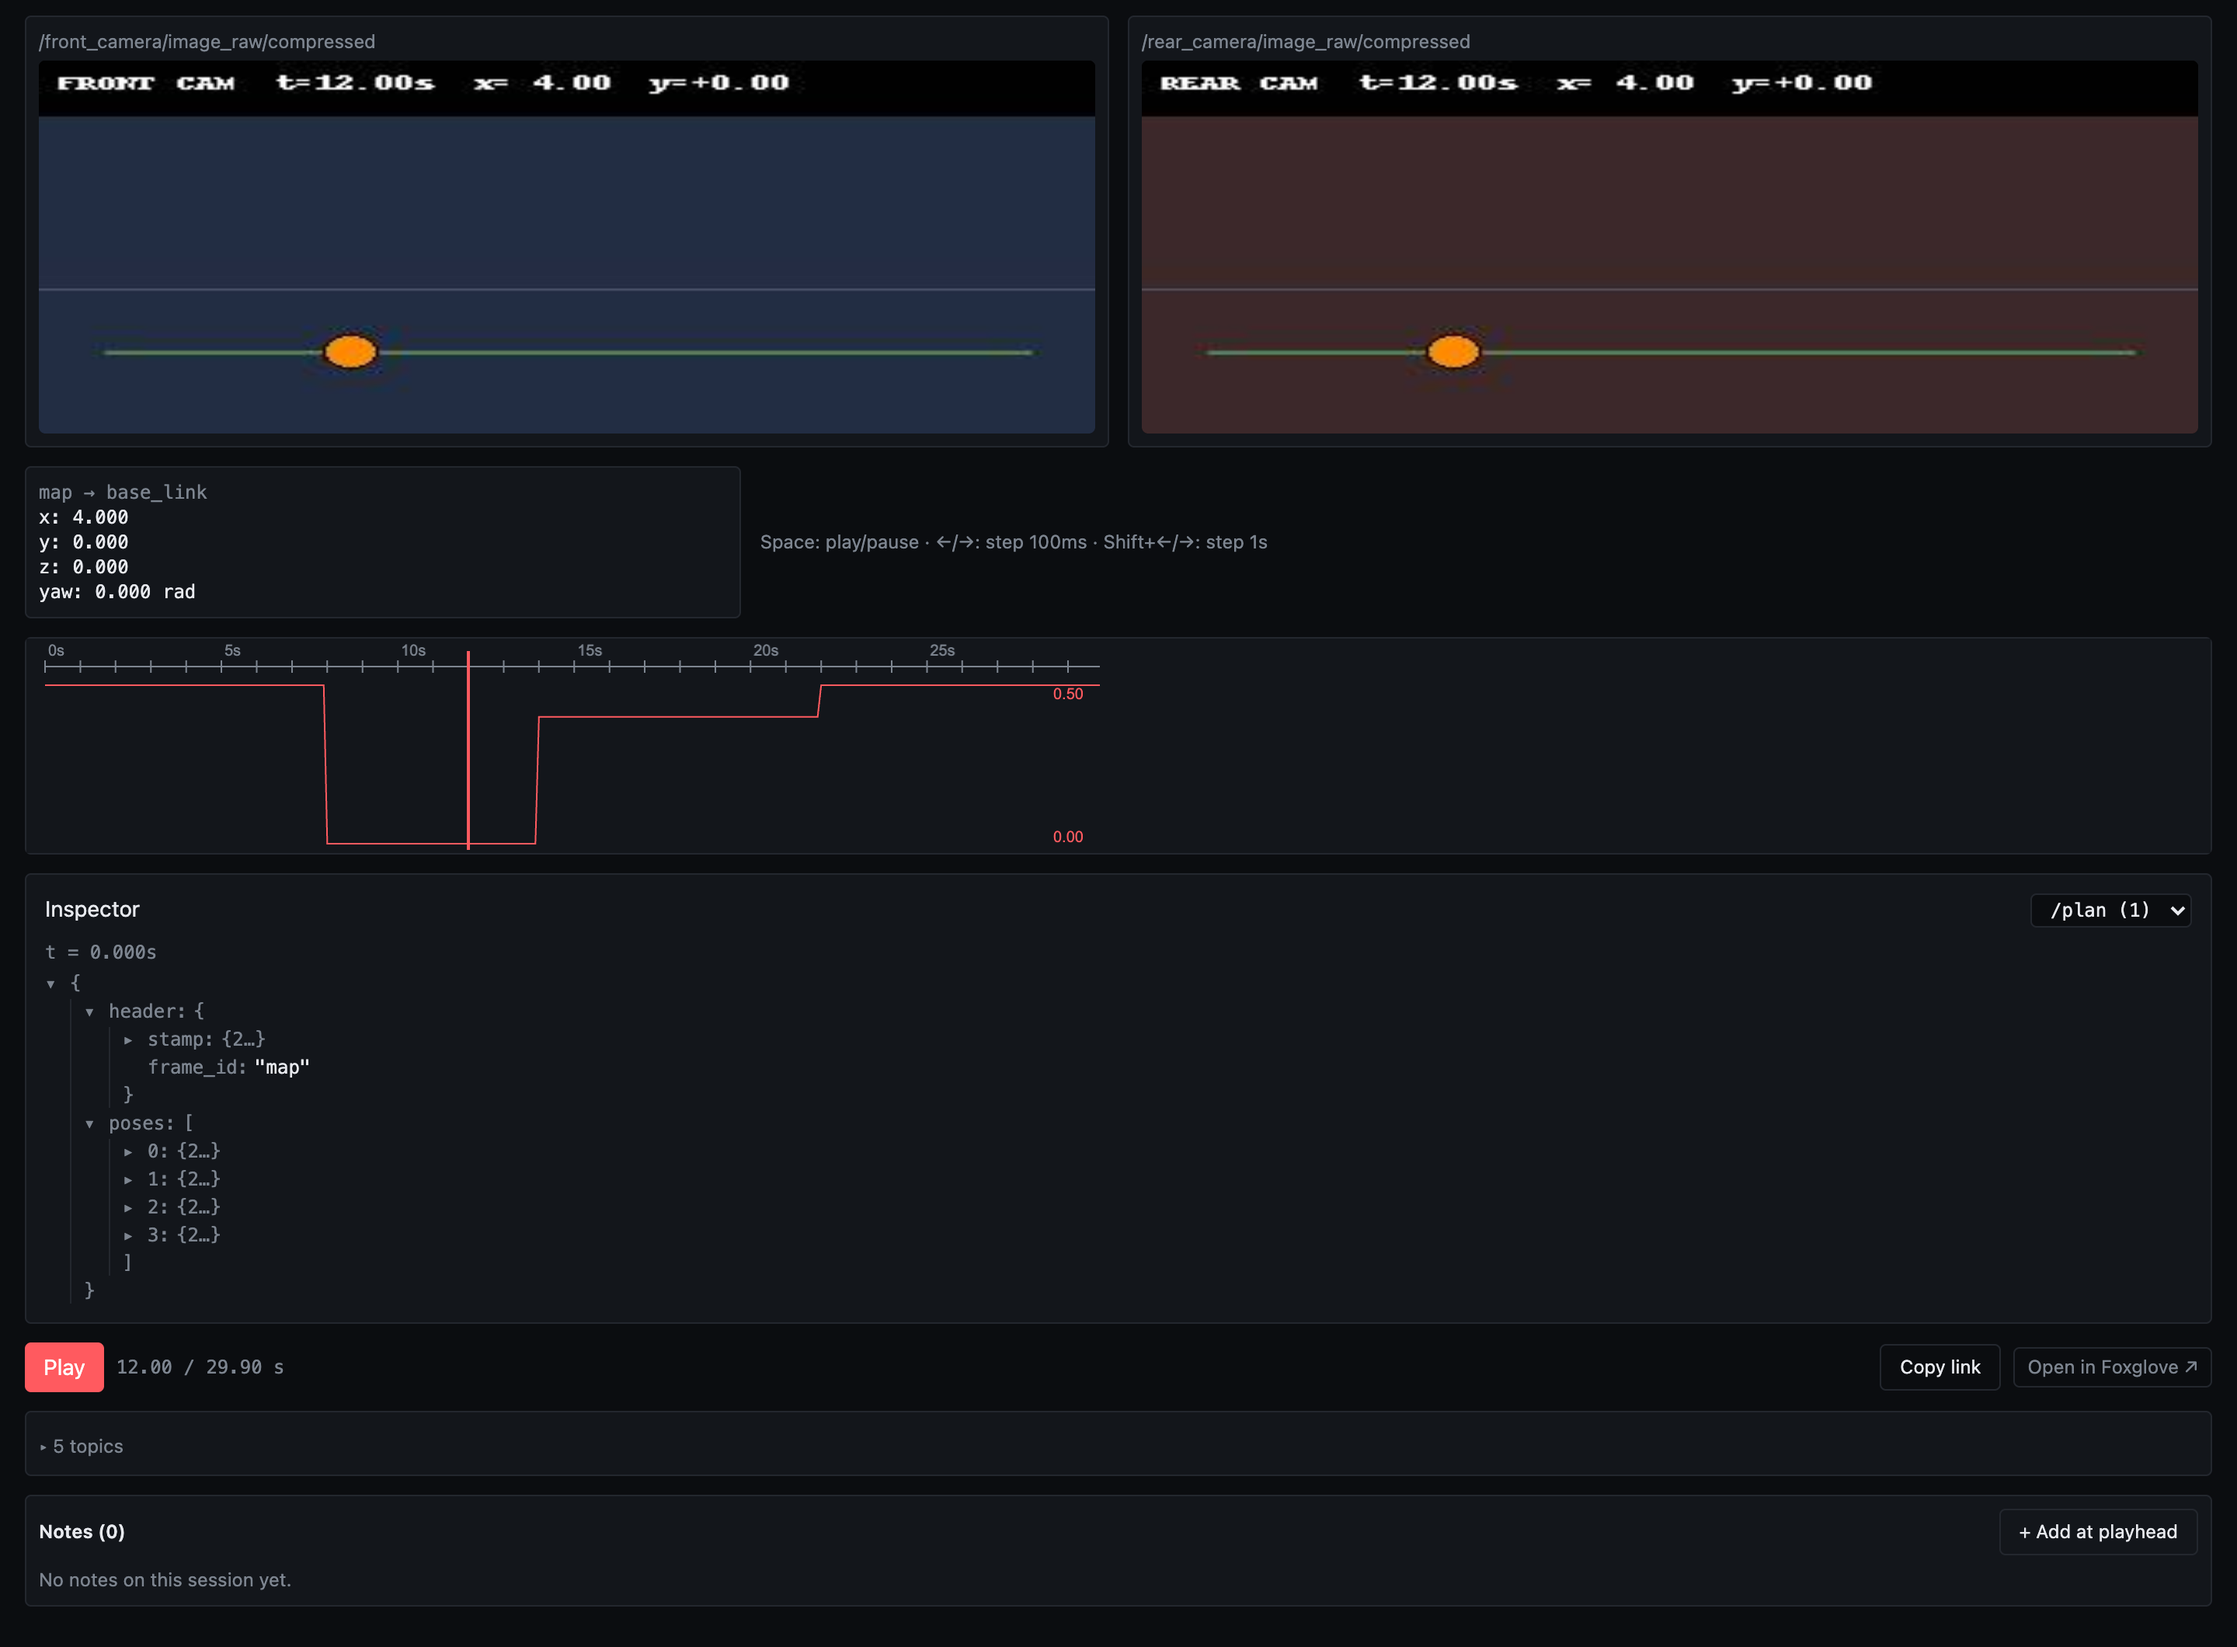
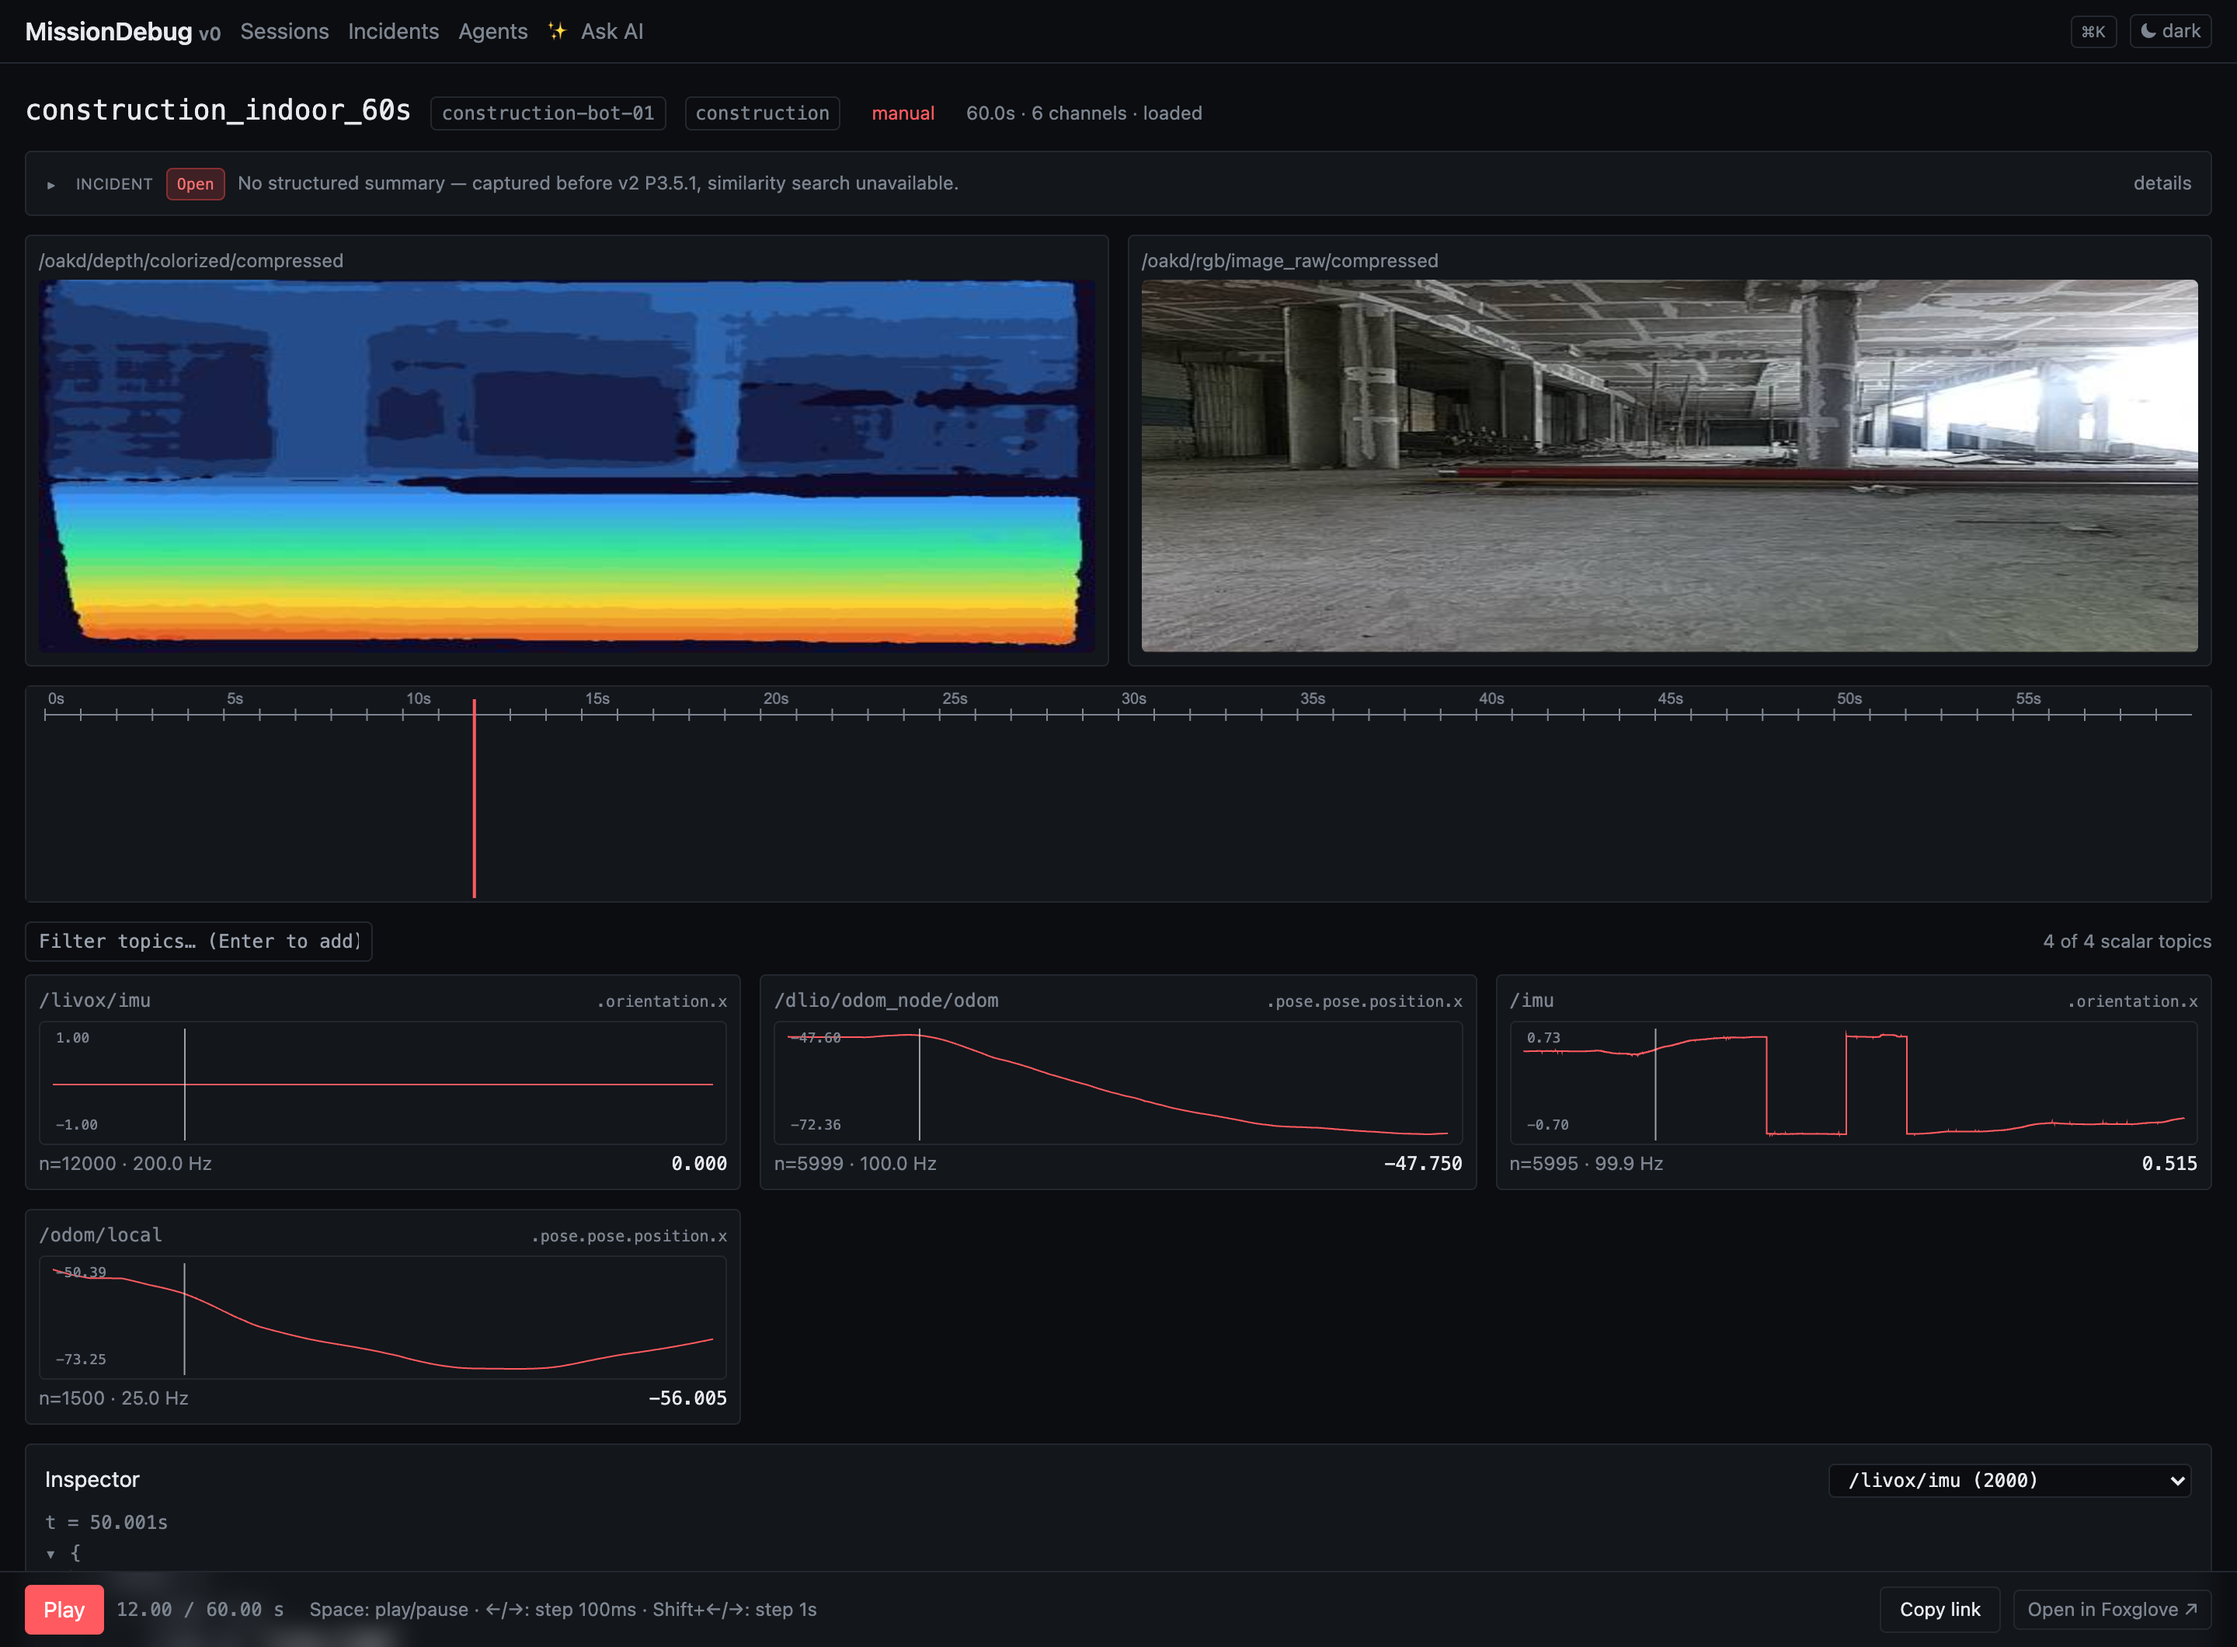
docs: retake list + detail screenshots against the construction capture

diff --git a/docs/HUB.md b/docs/HUB.md
@@ -154,7 +154,7 @@ happens, and the hub's dashboard shows your fleet's incidents in one
 place. Open any capture to scrub its timeline, including the camera
 frames captured around the incident:
 
-![A captured session in the hub: synchronized camera feeds, pose track, timeline scrubber, and a message inspector at the playhead](screenshot-detail.png)
+![A captured session in the hub: a real construction-robot capture with synchronized camera and depth feeds, timeline scrubber, odometry charts, and a message inspector at the playhead](screenshot-detail.png)
 
 ## Which view should I use?
 

diff --git a/README.md b/README.md
@@ -67,7 +67,7 @@ Most ROS debugging tools assume you knew to start recording. MissionDebug always
 
 > Sessions auto-save when a detector fires; the label tells you why. Click one to scrub the timeline.
 
-![Session detail: synchronized camera replay, pose, timeline with playhead, and a message inspector](docs/screenshot-detail.png)
+![Session detail: a real construction-robot capture — synchronized camera and depth replay, timeline with playhead, odometry charts, and a message inspector](docs/screenshot-detail.png)
 
 ---
 
